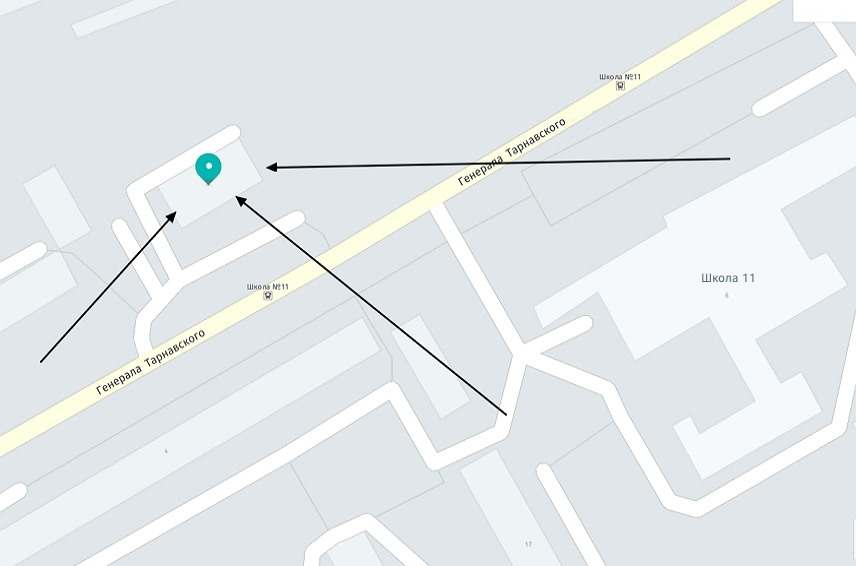
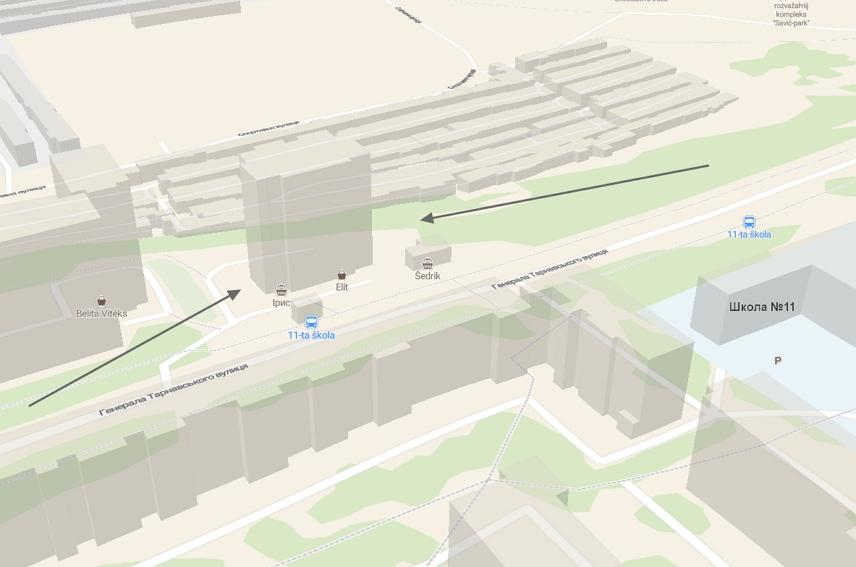
feature/cart devivery redux fix

diff --git a/app/redux/slices/cartSlice.tsx b/app/redux/slices/cartSlice.tsx
@@ -51,9 +51,7 @@ const cartSlice = createSlice({
         findItem.count++;
       }
 
-      state.totalPrice = state.items.reduce((sum, item) => {
-        return item.price * item.count + sum;
-      }, 0);
+      state.totalPrice = getTotalPrice(state.items);
     },
 
     decreaseItem(state, action) {
@@ -64,9 +62,7 @@ const cartSlice = createSlice({
         findItem.count--;
       }
 
-      state.totalPrice = state.items.reduce((sum, item) => {
-        return item.price * item.count + sum;
-      }, 0);
+      state.totalPrice = getTotalPrice(state.items);
     },
 
     removeItem(state, action) {
@@ -79,14 +75,17 @@ const cartSlice = createSlice({
         state.items = state.items.filter((item) => item !== findItem);
       }
 
-      state.totalPrice = state.items.reduce((sum, item) => {
-        return item.price * item.count + sum;
-      }, 0);
+      if (!state.items.length) {
+        state.cakeDelivery = 0;
+      }
+
+      state.totalPrice = getTotalPrice(state.items);
     },
 
     clearItems(state) {
       state.items = [];
       state.totalPrice = 0;
+      state.cakeDelivery = 0;
     },
 
     withDelivery(state) {

diff --git a/app/page.tsx b/app/page.tsx
@@ -1,9 +1,10 @@
 "use client";
 
-import HeroSection from "@hero/hero";
-import AboutSection from "@about/about";
-import CatalogPreview from "@/catalog-preview/catalog-preview";
-import Delivery from "@delivery/delivery";
+import HeroSection from "@home/hero/hero";
+import AboutSection from "@home/about/about";
+import CatalogPreview from "@home/catalog-preview/catalog-preview";
+import Testimonials from "@home/testimonials/testimonials";
+import Delivery from "@home/delivery/delivery";
 
 export default function Home() {
   return (
@@ -11,6 +12,7 @@ export default function Home() {
       <HeroSection />
       <AboutSection />
       <CatalogPreview />
+      <Testimonials />
       <Delivery />
     </>
   );

diff --git a/app/catalog/sort-catalog/sort-catalog.tsx b/app/catalog/sort-catalog/sort-catalog.tsx
@@ -20,7 +20,7 @@ const SortCatalog = () => {
       <p>Сортувати за:</p>
       <div className="relative">
         <select
-          className="border border-transparent bg-themeCaramel px-4 py-2 pr-8 text-themeBrown-100 underline-offset-0 hover:border-transparent focus:border-transparent focus:outline-0 focus:ring-0"
+          className="cursor-pointer border border-transparent bg-themeCaramel px-4 py-2 pr-8 text-themeBrown-100 underline-offset-0 hover:border-transparent focus:border-transparent focus:outline-0 focus:ring-0"
           onChange={handleChangeSortTitle}
           value={sortType}
         >

diff --git a/app/components/home/delivery/delivery.tsx b/app/components/home/delivery/delivery.tsx
@@ -1,8 +1,9 @@
+"use client";
+
 import Image from "next/image";
 
 import { CheckIcon } from "@icons/check";
-import { InfoIcon } from "@icons/info";
-import Hint from "@hint/hint";
+import Hint from "@home/delivery/hint/hint";
 
 const Delivery = () => {
   return (
@@ -38,7 +39,7 @@ const Delivery = () => {
       </div>
       <div className="">
         <Image
-          src="/assets/map3.jpg"
+          src="/assets/map.jpg"
           alt="cheesecake-Nahirna map location"
           width={856}
           height={566}

diff --git a/app/cart/total-order-price/total-order-price.tsx b/app/cart/total-order-price/total-order-price.tsx
@@ -35,7 +35,7 @@ const TotalOrderPrice = () => {
       <hr className="mx-auto mb-8 h-px w-full bg-themeBrown-20"></hr>
       <div className="flex flex-col justify-between gap-6">
         <button className="primaryButton" onClick={handleOrderConfirm}>
-          Підтверджую замовлення
+          Підтвердити замовлення
         </button>
         <button className="secondaryButton">Продовжити покупку</button>
       </div>

diff --git a/app/catalog/catalog-item/catalog-item.tsx b/app/catalog/catalog-item/catalog-item.tsx
@@ -5,7 +5,7 @@ import Link from "next/link";
 import { useEffect, useState } from "react";
 import SkeletonCard from "../skeleton/skeleton";
 import { useCatalog } from "../hooks/useCatalog";
-import SortCatalog from "@sort-catalog/sort-catalog";
+import SortCatalog from "@catalogsort-catalog/sort-catalog";
 
 type Props = {
   isFullCatalog?: boolean;

diff --git a/app/cart/order-form/order-form.tsx b/app/cart/order-form/order-form.tsx
@@ -6,7 +6,6 @@ import { withoutDelivery, withDelivery } from "../../redux/slices/cartSlice";
 const OrderForm = () => {
   const dispatch = useAppDispatch();
   const isCakeDelivery = useAppSelector((state) => state.cart.cakeDelivery);
-  console.log(isCakeDelivery);
 
   const handleCakeDelivery = () => {
     dispatch(withDelivery());

diff --git a/app/cart/page.tsx b/app/cart/page.tsx
@@ -35,7 +35,6 @@ const Cart = () => {
               </div>
             </div>
             {items.map((item) => {
-              console.log(item.id);
               return <CartItem key={item.uniqId} item={item} />;
             })}
             <OrderForm />

diff --git a/app/components/home/testimonials/testimonials.tsx b/app/components/home/testimonials/testimonials.tsx
@@ -1,0 +1,7 @@
+const Testimonials = () => {
+  return (
+    <div>testimonials</div>
+  )
+}
+
+export default Testimonials;
